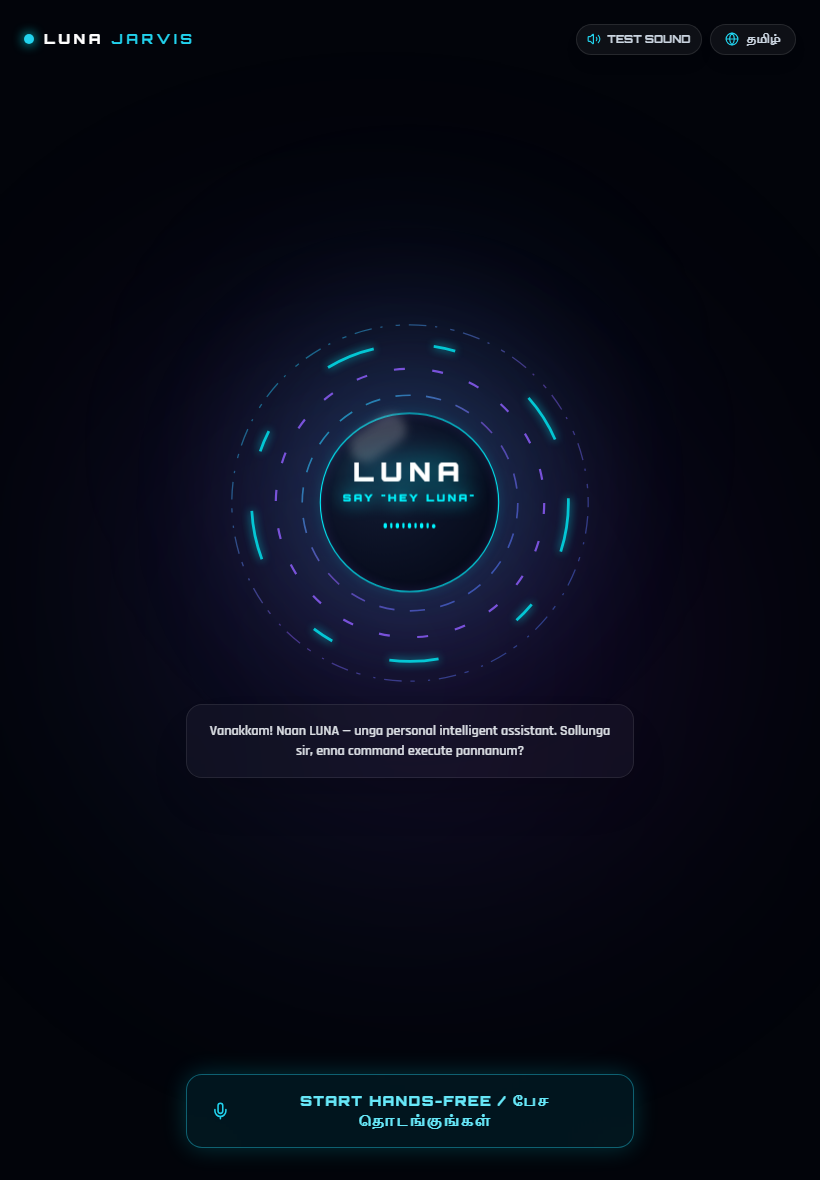
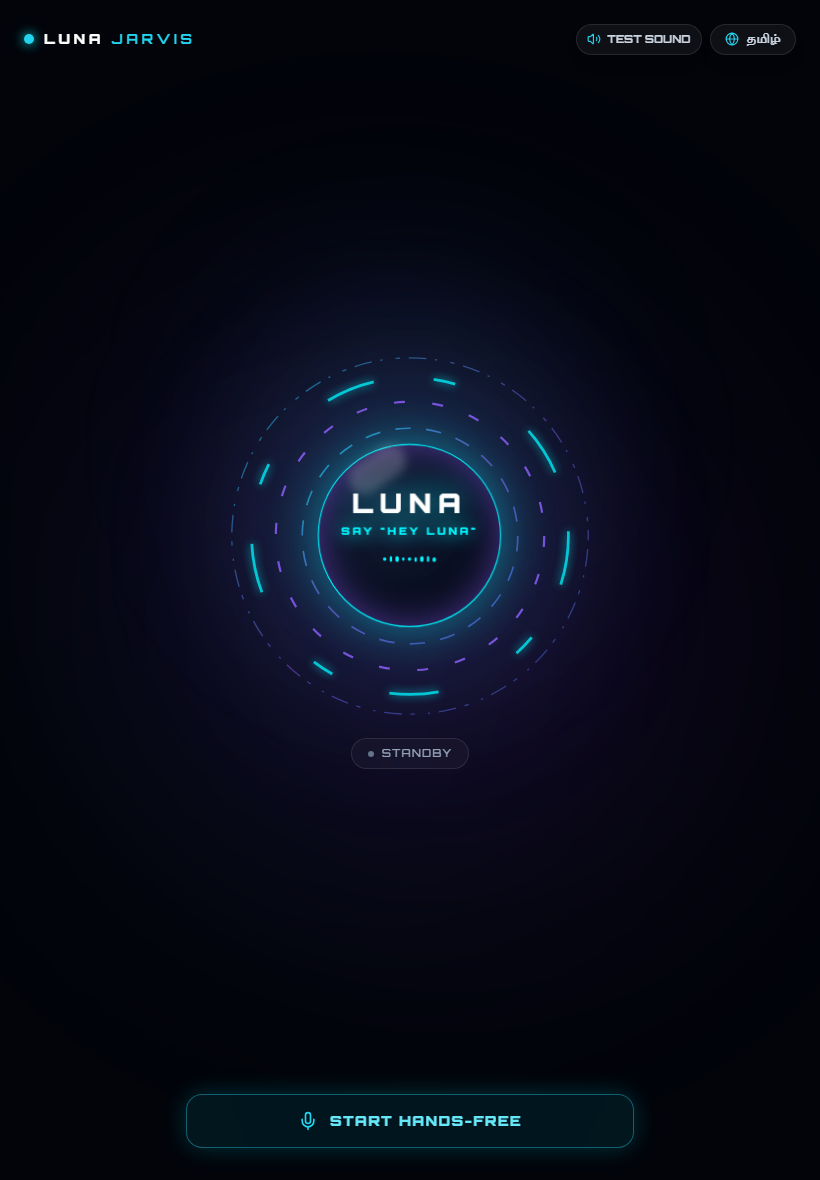
feat(ui): remove redundant duplex badges, elevate desktop view to cinematic JARVIS command center with telemetry HUD

diff --git a/apps/desktop/src/views/HomeView.tsx b/apps/desktop/src/views/HomeView.tsx
@@ -1,6 +1,6 @@
 import React, { useEffect, useState } from 'react';
 import { motion, AnimatePresence } from 'framer-motion';
-import { Mic, Globe, Sparkles, Volume2, Radio } from 'lucide-react';
+import { Mic, Globe, Sparkles, Volume2, Activity, Cpu, ShieldCheck, Zap } from 'lucide-react';
 import { LunaOrb } from '../components/LunaOrb';
 import { useLunaStore } from '../store/useLunaStore';
 import { speechEngine } from '../services/speech';
@@ -37,7 +37,7 @@ export const HomeView: React.FC = () => {
       }
     });
 
-    // 3. Audio volume visualizer for the Orb
+    // 3. Audio volume visualizer for the Orb & HUD
     speechEngine.setVolumeCallback((vol: number) => {
       setLiveVolume(vol);
     });
@@ -71,7 +71,7 @@ export const HomeView: React.FC = () => {
     }
   };
 
-  // Audio output test for mobile/iPhone
+  // Audio output test for mobile/iPhone/Desktop
   const handleTestAudio = async (e: React.MouseEvent) => {
     e.stopPropagation();
     speechEngine.unlockAudio();
@@ -85,45 +85,47 @@ export const HomeView: React.FC = () => {
     setAssistantState('idle');
   };
 
+  // Animated spectrum equalizer heights for desktop HUD
+  const spectrumBars = [35, 60, 85, 45, 95, 70, 50, 90, 65, 40, 80, 55, 75, 45, 85, 60];
+
   return (
     <div
       onClick={handleUserGesture}
       onTouchStart={() => speechEngine.unlockAudio()}
-      className="flex-1 flex flex-col h-full w-full bg-[#02040a] relative overflow-hidden select-none justify-between items-center py-6 px-4 cursor-pointer"
+      className="flex-1 flex flex-col h-full w-full bg-[#02040a] relative overflow-hidden select-none justify-between items-center py-5 px-4 sm:px-8 cursor-pointer"
     >
-      {/* 1. Deep Space Ambient Nebula Glow */}
-      <div className="absolute inset-0 pointer-events-none overflow-hidden">
-        <div className="absolute top-1/2 left-1/2 -translate-x-1/2 -translate-y-1/2 w-[600px] h-[600px] bg-gradient-to-tr from-cyan-500/10 via-purple-600/15 to-transparent rounded-full blur-[140px] pointer-events-none" />
-        <div className="absolute top-1/4 left-1/2 -translate-x-1/2 w-[300px] h-[300px] bg-cyan-400/10 rounded-full blur-[100px] pointer-events-none" />
+      {/* 1. Deep Space Cosmic Nebula Ambient Lighting (Desktop Enhanced) */}
+      <div className="absolute inset-0 pointer-events-none overflow-hidden flex items-center justify-center">
+        <div className="absolute w-[600px] sm:w-[900px] h-[600px] sm:h-[900px] bg-gradient-to-tr from-cyan-500/15 via-purple-600/20 to-transparent rounded-full blur-[140px] sm:blur-[180px] pointer-events-none" />
+        <div className="absolute w-[350px] sm:w-[500px] h-[350px] sm:h-[500px] bg-cyan-400/12 rounded-full blur-[100px] sm:blur-[130px] pointer-events-none" />
+
+        {/* Desktop Sci-Fi Orbital Grid Rings */}
+        <div className="hidden lg:block absolute w-[720px] h-[720px] rounded-full border border-cyan-500/10 pointer-events-none animate-spin [animation-duration:140s]" />
+        <div className="hidden lg:block absolute w-[940px] h-[940px] rounded-full border border-purple-500/10 border-dashed pointer-events-none animate-spin [animation-duration:90s] [animation-direction:reverse]" />
+        <div className="hidden xl:block absolute w-[1160px] h-[1160px] rounded-full border border-cyan-400/5 pointer-events-none" />
       </div>
 
       {/* 2. Top Ultra-Clean Minimal HUD Bar */}
-      <header className="w-full max-w-4xl flex items-center justify-between z-30 px-2 cursor-default">
+      <header className="w-full max-w-6xl flex items-center justify-between z-30 px-2 sm:px-4 cursor-default">
         {/* Futuristic Brand Watermark with Live Status Dot */}
-        <div className="flex items-center gap-2.5">
+        <div className="flex items-center gap-3">
           <span
             className={`w-2.5 h-2.5 rounded-full ${
               isHandsFreeActive
-                ? 'bg-emerald-400 animate-ping shadow-[0_0_12px_#34d399]'
+                ? 'bg-emerald-400 animate-ping shadow-[0_0_14px_#34d399]'
                 : 'bg-cyan-400 shadow-[0_0_12px_#00f5ff]'
             }`}
           />
-          <span className="font-orbitron font-black text-sm tracking-[0.25em] text-white">
+          <span className="font-orbitron font-black text-sm sm:text-base tracking-[0.28em] text-white">
             LUNA <span className="text-cyan-400 font-semibold">JARVIS</span>
           </span>
-          {isHandsFreeActive && (
-            <span className="hidden sm:inline-flex items-center gap-1.5 px-2 py-0.5 rounded-full bg-emerald-500/15 border border-emerald-400/30 text-[10px] font-orbitron font-bold text-emerald-300">
-              <Radio className="w-2.5 h-2.5 animate-pulse text-emerald-400" />
-              HANDS-FREE DUPLEX
-            </span>
-          )}
         </div>
 
         {/* Right Action Controls: Test Sound & Language Pill */}
-        <div className="flex items-center gap-2">
+        <div className="flex items-center gap-2.5">
           <button
             onClick={handleTestAudio}
-            className="px-2.5 py-1.5 rounded-full bg-white/5 border border-white/10 hover:border-cyan-400/50 text-[11px] font-orbitron font-bold text-slate-300 hover:text-white transition-all flex items-center gap-1.5 backdrop-blur-xl shadow-lg cursor-pointer"
+            className="px-3 py-1.5 rounded-full bg-white/5 border border-white/10 hover:border-cyan-400/50 text-[11px] font-orbitron font-bold text-slate-300 hover:text-white transition-all flex items-center gap-1.5 backdrop-blur-xl shadow-lg cursor-pointer hover:shadow-[0_0_20px_rgba(0,245,255,0.25)]"
             title="Test Voice Sound"
           >
             <Volume2 className="w-3.5 h-3.5 text-cyan-400" />
@@ -135,7 +137,7 @@ export const HomeView: React.FC = () => {
               e.stopPropagation();
               setLanguage(language === 'ta-IN' ? 'en-US' : 'ta-IN');
             }}
-            className="px-3.5 py-1.5 rounded-full bg-white/5 border border-white/10 hover:border-cyan-400/50 text-[11px] font-orbitron font-bold text-slate-300 hover:text-white transition-all flex items-center gap-2 backdrop-blur-xl shadow-lg cursor-pointer"
+            className="px-3.5 py-1.5 rounded-full bg-white/5 border border-white/10 hover:border-cyan-400/50 text-[11px] font-orbitron font-bold text-slate-300 hover:text-white transition-all flex items-center gap-2 backdrop-blur-xl shadow-lg cursor-pointer hover:shadow-[0_0_20px_rgba(0,245,255,0.25)]"
           >
             <Globe className="w-3.5 h-3.5 text-cyan-400" />
             <span>{language === 'ta-IN' ? 'தமிழ்' : 'ENGLISH'}</span>
@@ -143,102 +145,151 @@ export const HomeView: React.FC = () => {
         </div>
       </header>
 
-      {/* 3. Pure Cinematic Center Stage: The Majestic Quantum Orb */}
-      <main className="flex-1 flex flex-col items-center justify-center w-full z-20 my-auto relative">
-        <div
-          onClick={(e) => {
-            e.stopPropagation();
-            handleToggleHandsFree();
-          }}
-          className="relative flex items-center justify-center scale-90 sm:scale-100 md:scale-110 transition-transform cursor-pointer"
-        >
-          <LunaOrb
-            state={assistantState}
-            size={340}
-            liveVolume={liveVolume}
-          />
+      {/* 3. Pure Cinematic Center Stage: Majestic Desktop Quantum Core */}
+      <main className="flex-1 flex items-center justify-center w-full max-w-6xl z-20 my-auto relative px-2 sm:px-6">
+        {/* Left Desktop Holographic Telemetry HUD (Hidden on mobile) */}
+        <div className="hidden lg:flex flex-col gap-4 w-64 p-4 rounded-2xl bg-white/[0.02] border border-cyan-500/15 backdrop-blur-2xl shadow-[0_0_30px_rgba(0,245,255,0.06)] pointer-events-none select-none transition-all">
+          <div className="flex items-center gap-2 border-b border-white/10 pb-2.5">
+            <Cpu className="w-4 h-4 text-cyan-400" />
+            <span className="text-[10px] font-orbitron font-black tracking-[0.2em] text-cyan-300">
+              CORE TELEMETRY
+            </span>
+          </div>
+
+          <div className="space-y-2.5 text-[10px] font-orbitron text-slate-400">
+            <div className="flex items-center justify-between">
+              <span className="text-slate-400">AI BRAIN</span>
+              <span className="text-cyan-300 font-bold">GROQ 20B</span>
+            </div>
+            <div className="flex items-center justify-between">
+              <span className="text-slate-400">VOICE TTS</span>
+              <span className="text-purple-300 font-bold">EDGE NEURAL</span>
+            </div>
+            <div className="flex items-center justify-between">
+              <span className="text-slate-400">ACOUSTIC VAD</span>
+              <span className="text-emerald-400 font-bold">400ms FAST</span>
+            </div>
+            <div className="flex items-center justify-between">
+              <span className="text-slate-400">STATUS</span>
+              <span className="text-cyan-300 font-bold flex items-center gap-1">
+                <span className="w-1.5 h-1.5 rounded-full bg-cyan-400 animate-ping" />
+                OPTIMAL
+              </span>
+            </div>
+          </div>
         </div>
 
-        {/* 4. Ultra-Minimal Quantum State Indicator (Zero Spoken Text Clutter) */}
-        <div className="mt-8 w-full max-w-xs flex flex-col items-center min-h-[44px]">
-          <AnimatePresence mode="wait">
-            {isHearingSpeech || assistantState === 'listening' ? (
-              <motion.div
-                key="listening"
-                initial={{ opacity: 0, scale: 0.9 }}
-                animate={{ opacity: 1, scale: 1 }}
-                exit={{ opacity: 0, scale: 0.9 }}
-                className="px-5 py-2 rounded-full bg-cyan-950/60 border border-cyan-400/60 backdrop-blur-2xl shadow-[0_0_30px_rgba(0,245,255,0.35)] flex items-center gap-2.5 text-cyan-200 text-xs font-orbitron font-extrabold tracking-widest"
-              >
-                <div className="flex items-center gap-1">
-                  <span className="w-1.5 h-3.5 bg-cyan-400 rounded-full animate-bounce" />
-                  <span className="w-1.5 h-5 bg-cyan-400 rounded-full animate-bounce delay-100" />
-                  <span className="w-1.5 h-3.5 bg-cyan-400 rounded-full animate-bounce delay-200" />
-                </div>
-                <span>LISTENING</span>
-              </motion.div>
-            ) : assistantState === 'speaking' ? (
-              <motion.div
-                key="speaking"
-                initial={{ opacity: 0, scale: 0.9 }}
-                animate={{ opacity: 1, scale: 1 }}
-                exit={{ opacity: 0, scale: 0.9 }}
-                className="px-5 py-2 rounded-full bg-purple-950/60 border border-purple-400/60 backdrop-blur-2xl shadow-[0_0_30px_rgba(168,85,247,0.4)] flex items-center gap-2 text-purple-200 text-xs font-orbitron font-extrabold tracking-widest"
-              >
-                <Volume2 className="w-4 h-4 text-purple-400 animate-pulse" />
-                <span>SPEAKING</span>
-              </motion.div>
-            ) : assistantState === 'thinking' || assistantState === 'processing' ? (
-              <motion.div
-                key="thinking"
-                initial={{ opacity: 0, scale: 0.9 }}
-                animate={{ opacity: 1, scale: 1 }}
-                exit={{ opacity: 0, scale: 0.9 }}
-                className="px-5 py-2 rounded-full bg-purple-950/60 border border-purple-400/50 backdrop-blur-2xl shadow-[0_0_25px_rgba(168,85,247,0.3)] flex items-center gap-2 text-purple-300 text-xs font-orbitron font-bold tracking-widest"
-              >
-                <Sparkles className="w-4 h-4 text-purple-400 animate-spin" />
-                <span>THINKING</span>
-              </motion.div>
-            ) : isHandsFreeActive ? (
-              <motion.div
-                key="active"
-                initial={{ opacity: 0, scale: 0.9 }}
-                animate={{ opacity: 1, scale: 1 }}
-                exit={{ opacity: 0, scale: 0.9 }}
-                className="px-4 py-1.5 rounded-full bg-emerald-950/40 border border-emerald-400/50 backdrop-blur-xl flex items-center gap-2 text-emerald-300 text-[11px] font-orbitron font-bold tracking-widest"
-              >
-                <span className="w-2 h-2 rounded-full bg-emerald-400 animate-ping" />
-                <span>ACTIVE DUPLEX</span>
-              </motion.div>
-            ) : (
-              <motion.div
-                key="standby"
-                initial={{ opacity: 0 }}
-                animate={{ opacity: 1 }}
-                exit={{ opacity: 0 }}
-                className="px-4 py-1.5 rounded-full bg-white/[0.03] border border-white/10 backdrop-blur-xl flex items-center gap-2 text-slate-400 text-[11px] font-orbitron tracking-widest"
-              >
-                <span className="w-1.5 h-1.5 rounded-full bg-slate-500" />
-                <span>STANDBY</span>
-              </motion.div>
-            )}
-          </AnimatePresence>
+        {/* Center: The Majestic Quantum Orb */}
+        <div className="flex-1 flex flex-col items-center justify-center relative">
+          <div
+            onClick={(e) => {
+              e.stopPropagation();
+              handleToggleHandsFree();
+            }}
+            className="relative flex items-center justify-center scale-95 sm:scale-105 md:scale-115 lg:scale-125 xl:scale-135 transition-all duration-500 cursor-pointer"
+          >
+            <LunaOrb
+              state={assistantState}
+              size={360}
+              liveVolume={liveVolume}
+            />
+          </div>
+
+          {/* Realtime Active Voice State Pill (ONLY shown during active speech/listening/thinking) */}
+          <div className="mt-8 sm:mt-10 w-full max-w-xs flex flex-col items-center min-h-[38px]">
+            <AnimatePresence mode="wait">
+              {isHearingSpeech || assistantState === 'listening' ? (
+                <motion.div
+                  key="listening"
+                  initial={{ opacity: 0, scale: 0.9 }}
+                  animate={{ opacity: 1, scale: 1 }}
+                  exit={{ opacity: 0, scale: 0.9 }}
+                  className="px-5 py-2 rounded-full bg-cyan-950/60 border border-cyan-400/60 backdrop-blur-2xl shadow-[0_0_30px_rgba(0,245,255,0.35)] flex items-center gap-2.5 text-cyan-200 text-xs font-orbitron font-extrabold tracking-widest"
+                >
+                  <div className="flex items-center gap-1">
+                    <span className="w-1.5 h-3.5 bg-cyan-400 rounded-full animate-bounce" />
+                    <span className="w-1.5 h-5 bg-cyan-400 rounded-full animate-bounce delay-100" />
+                    <span className="w-1.5 h-3.5 bg-cyan-400 rounded-full animate-bounce delay-200" />
+                  </div>
+                  <span>LISTENING</span>
+                </motion.div>
+              ) : assistantState === 'speaking' ? (
+                <motion.div
+                  key="speaking"
+                  initial={{ opacity: 0, scale: 0.9 }}
+                  animate={{ opacity: 1, scale: 1 }}
+                  exit={{ opacity: 0, scale: 0.9 }}
+                  className="px-5 py-2 rounded-full bg-purple-950/60 border border-purple-400/60 backdrop-blur-2xl shadow-[0_0_30px_rgba(168,85,247,0.4)] flex items-center gap-2 text-purple-200 text-xs font-orbitron font-extrabold tracking-widest"
+                >
+                  <Volume2 className="w-4 h-4 text-purple-400 animate-pulse" />
+                  <span>SPEAKING</span>
+                </motion.div>
+              ) : assistantState === 'thinking' || assistantState === 'processing' ? (
+                <motion.div
+                  key="thinking"
+                  initial={{ opacity: 0, scale: 0.9 }}
+                  animate={{ opacity: 1, scale: 1 }}
+                  exit={{ opacity: 0, scale: 0.9 }}
+                  className="px-5 py-2 rounded-full bg-purple-950/60 border border-purple-400/50 backdrop-blur-2xl shadow-[0_0_25px_rgba(168,85,247,0.3)] flex items-center gap-2 text-purple-300 text-xs font-orbitron font-bold tracking-widest"
+                >
+                  <Sparkles className="w-4 h-4 text-purple-400 animate-spin" />
+                  <span>THINKING</span>
+                </motion.div>
+              ) : null}
+            </AnimatePresence>
+          </div>
+        </div>
+
+        {/* Right Desktop Holographic Acoustic Spectrum HUD (Hidden on mobile) */}
+        <div className="hidden lg:flex flex-col gap-4 w-64 p-4 rounded-2xl bg-white/[0.02] border border-purple-500/15 backdrop-blur-2xl shadow-[0_0_30px_rgba(168,85,247,0.06)] pointer-events-none select-none transition-all">
+          <div className="flex items-center gap-2 border-b border-white/10 pb-2.5">
+            <Activity className="w-4 h-4 text-purple-400" />
+            <span className="text-[10px] font-orbitron font-black tracking-[0.2em] text-purple-300">
+              ACOUSTIC SPECTRUM
+            </span>
+          </div>
+
+          {/* Reactive Equalizer Spectrum Bars */}
+          <div className="flex items-end justify-between h-14 px-1 gap-1">
+            {spectrumBars.map((baseH, i) => {
+              const dynHeight = Math.min(100, Math.max(12, baseH * (0.35 + (liveVolume / 100) * 0.95)));
+              return (
+                <motion.div
+                  key={i}
+                  className="w-2 rounded-full bg-gradient-to-t from-purple-500/30 to-cyan-400"
+                  animate={{ height: `${dynHeight}%` }}
+                  transition={{ duration: 0.1, ease: 'easeOut' }}
+                />
+              );
+            })}
+          </div>
+
+          <div className="space-y-1.5 text-[9px] font-orbitron text-slate-400 border-t border-white/5 pt-2">
+            <div className="flex justify-between">
+              <span>FREQUENCY</span>
+              <span className="text-cyan-300">20Hz — 20kHz</span>
+            </div>
+            <div className="flex justify-between">
+              <span>INPUT GAIN</span>
+              <span className="text-purple-300 font-bold">{Math.round(liveVolume)}%</span>
+            </div>
+          </div>
         </div>
       </main>
 
-      {/* 5. Bottom Ultra-Clean Status / Action Button & Device Advisory */}
-      <footer className="w-full max-w-md z-30 pb-2 flex flex-col items-center gap-2">
+      {/* 4. Bottom Ultra-Clean Status / Action Button & Device Advisory */}
+      <footer className="w-full max-w-sm sm:max-w-md lg:max-w-lg z-30 pb-2 sm:pb-3 flex flex-col items-center gap-2">
         <button
           onClick={(e) => {
             e.stopPropagation();
             handleToggleHandsFree();
           }}
-          className={`w-full py-4 px-6 rounded-2xl font-orbitron font-extrabold text-xs sm:text-sm tracking-widest uppercase transition-all duration-300 flex items-center justify-center gap-3 backdrop-blur-2xl cursor-pointer ${
+          className={`w-full py-4 sm:py-4.5 px-6 sm:px-8 rounded-2xl font-orbitron font-extrabold text-xs sm:text-sm tracking-widest uppercase transition-all duration-300 flex items-center justify-center gap-3 backdrop-blur-2xl cursor-pointer ${
             isHearingSpeech
-              ? 'bg-rose-500 text-white shadow-[0_0_35px_rgba(244,63,94,0.6)] animate-pulse border border-rose-400'
+              ? 'bg-rose-500 text-white shadow-[0_0_40px_rgba(244,63,94,0.65)] animate-pulse border border-rose-400'
               : isHandsFreeActive
-              ? 'bg-emerald-500/15 hover:bg-emerald-500/25 text-emerald-300 hover:text-white border border-emerald-400/50 shadow-[0_0_25px_rgba(52,211,153,0.25)]'
-              : 'bg-cyan-500/10 hover:bg-cyan-500/20 text-cyan-300 hover:text-white border border-cyan-400/40 shadow-[0_0_25px_rgba(0,245,255,0.2)] hover:shadow-[0_0_35px_rgba(0,245,255,0.4)]'
+              ? 'bg-emerald-500/15 hover:bg-emerald-500/25 text-emerald-300 hover:text-white border border-emerald-400/50 shadow-[0_0_30px_rgba(52,211,153,0.25)] hover:shadow-[0_0_40px_rgba(52,211,153,0.4)]'
+              : 'bg-cyan-500/10 hover:bg-cyan-500/20 text-cyan-300 hover:text-white border border-cyan-400/40 shadow-[0_0_30px_rgba(0,245,255,0.2)] hover:shadow-[0_0_45px_rgba(0,245,255,0.45)]'
           }`}
         >
           {isHearingSpeech ? (
@@ -248,7 +299,7 @@ export const HomeView: React.FC = () => {
             </>
           ) : isHandsFreeActive ? (
             <>
-              <Radio className="w-5 h-5 text-emerald-400 animate-pulse" />
+              <Zap className="w-5 h-5 text-emerald-400 animate-pulse" />
               <span>HANDS-FREE ACTIVE • (TAP TO PAUSE)</span>
             </>
           ) : (
